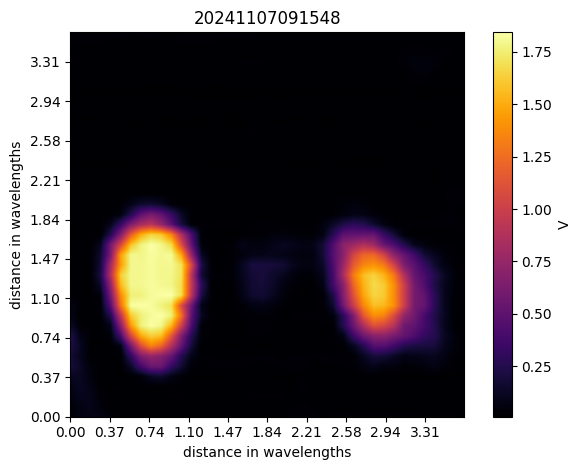
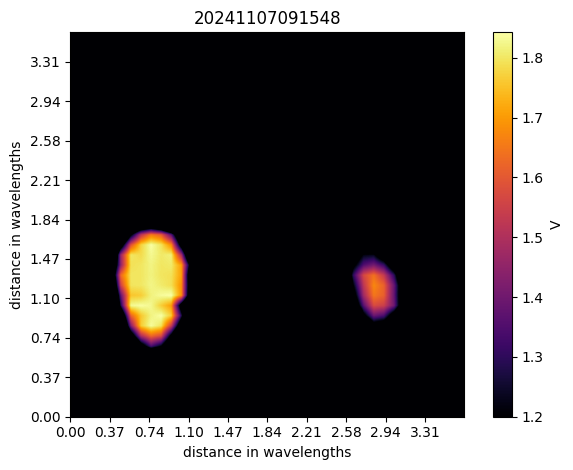
udpate figs

diff --git a/03_geometry_based_beamforming/031_Friis/processing/plot_2d_ep.py b/03_geometry_based_beamforming/031_Friis/processing/plot_2d_ep.py
@@ -123,7 +123,7 @@ for i, tp in enumerate(to_plot):
     fig, ax = plt.subplots()
     plt.title(tp)
     upsampled_heatmap = zoom(heatmap, zoom=zoom_val, order=1)
-    p = ax.imshow(upsampled_heatmap/1e3, cmap=cmap, origin="lower")
+    p = ax.imshow(upsampled_heatmap/1e3, cmap=cmap, vmin=1.2, origin="lower")
     ax.set_xticks(
         zoom_val * np.arange(len(xi))[::4],
         labels=[f"{(x-xi[0])/wavelen:.2f}" for x in xi][::4],
